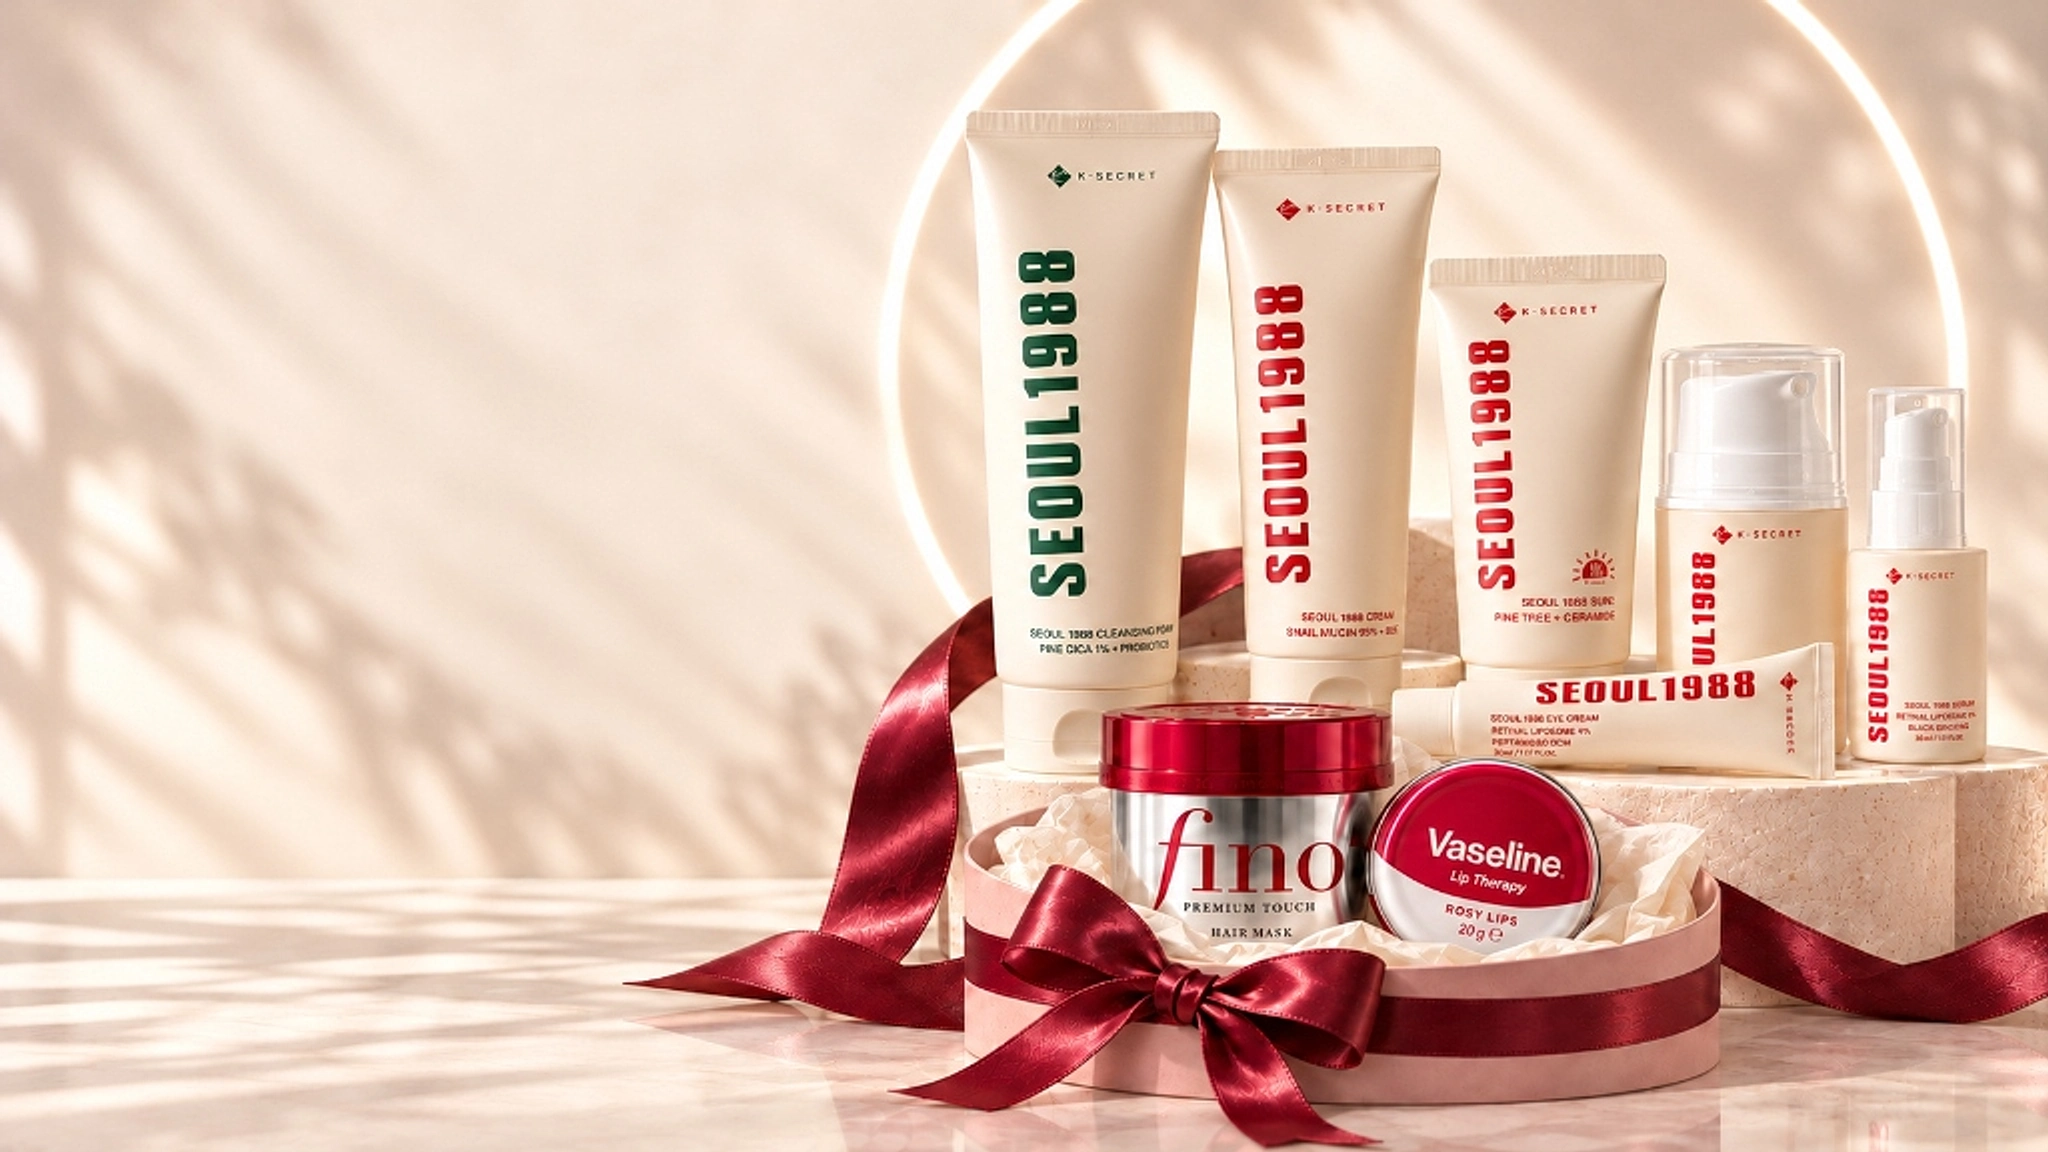
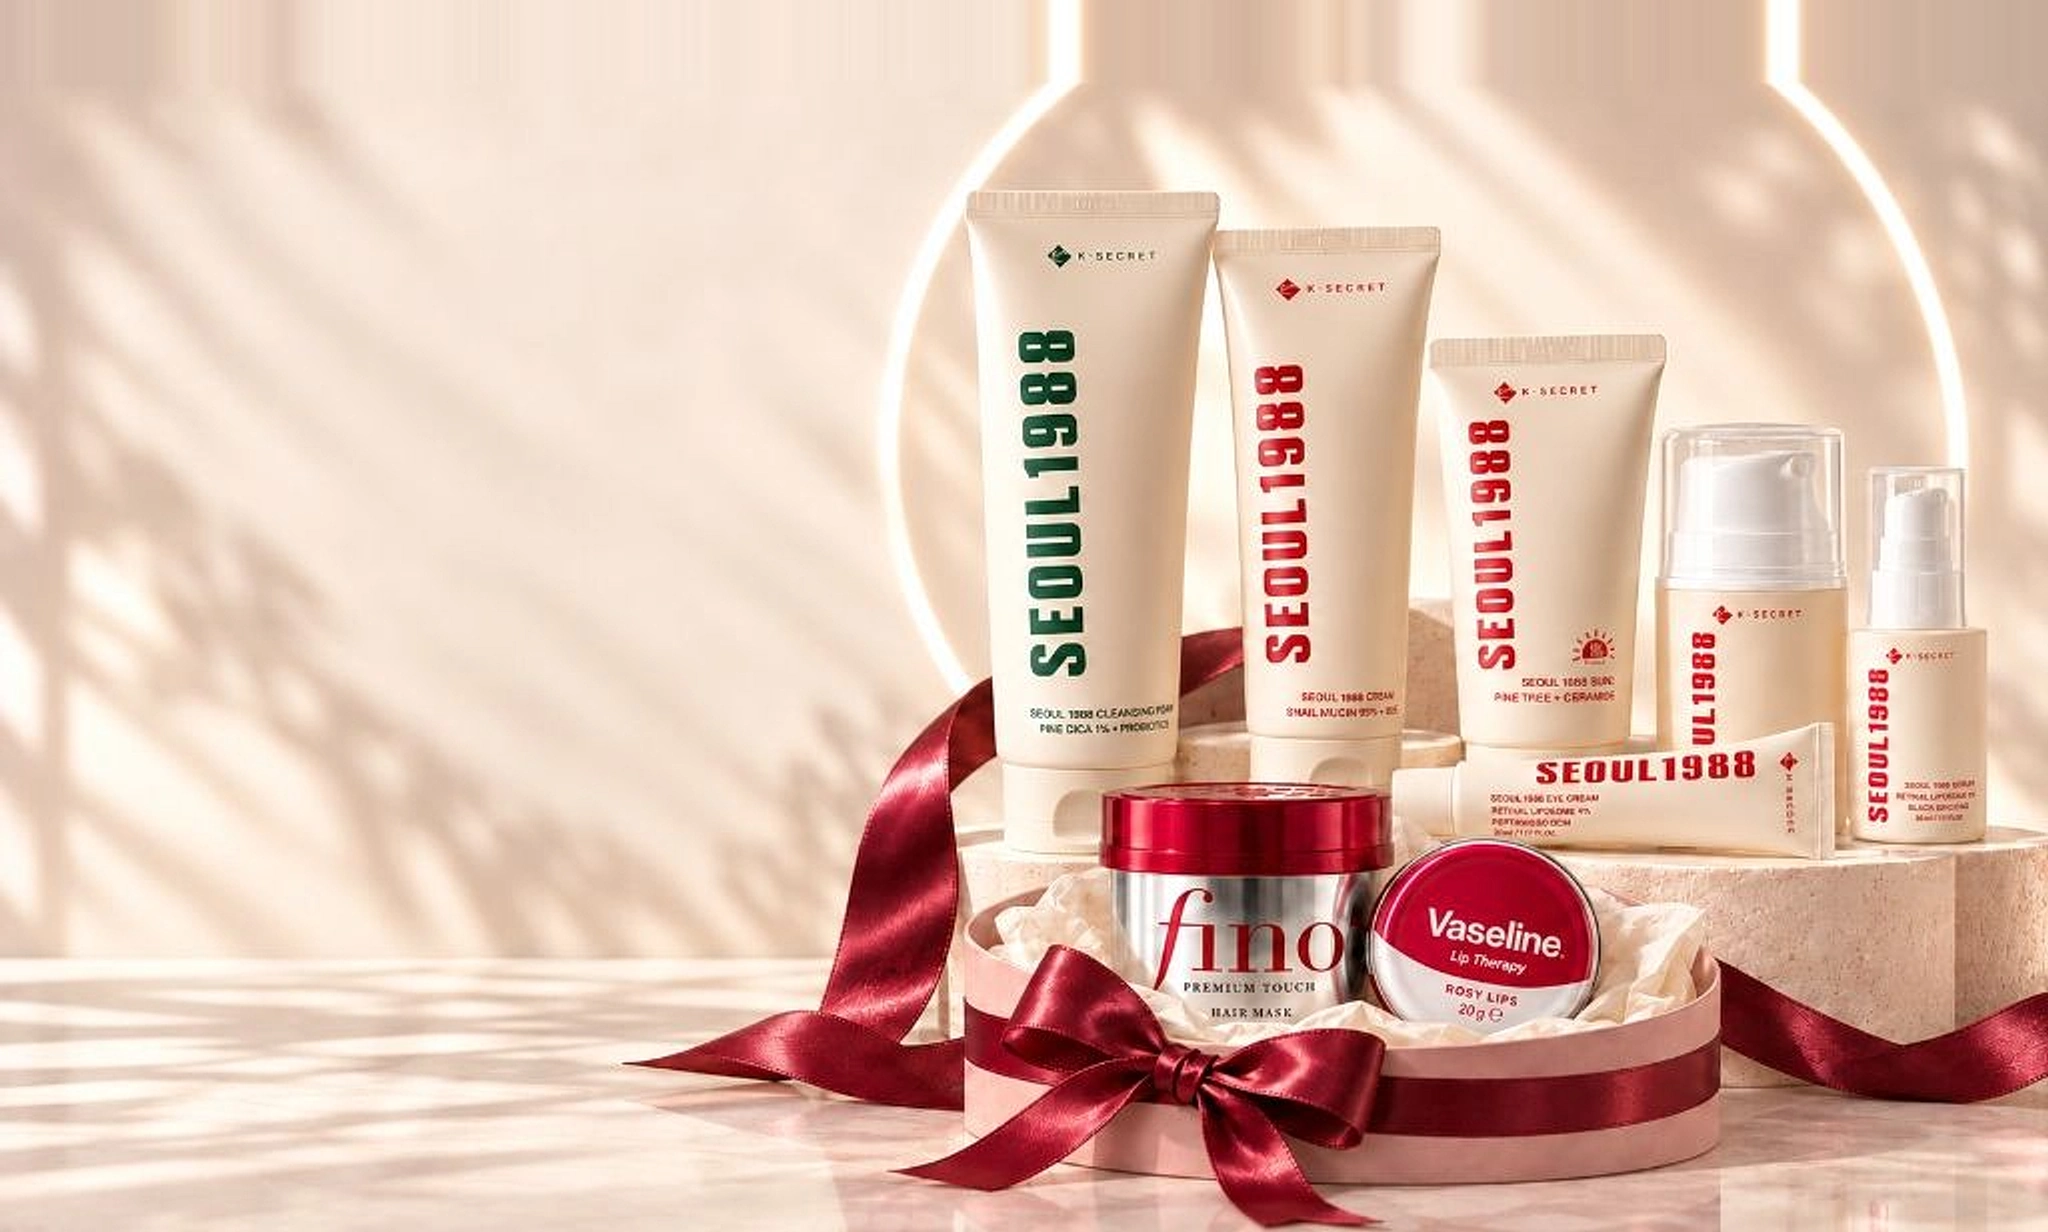
Scale and ground hero image to bottom right with headroom, revealing full circle and green cleansing foam without clipping

diff --git a/landing-page-2/components/Hero.tsx b/landing-page-2/components/Hero.tsx
@@ -17,26 +17,34 @@ export default function Hero() {
   return (
     <section
       id="hero"
-      className="relative pt-24 pb-12 sm:pt-28 sm:pb-16 lg:pt-36 lg:pb-28 overflow-hidden bg-[#EBDDCF] text-[#310F10]"
+      className="relative pt-24 pb-8 sm:pt-28 sm:pb-10 lg:pt-32 lg:pb-12 overflow-hidden bg-[#FAF7EE] text-[#310F10] min-h-[580px] lg:min-h-[640px] xl:min-h-[700px] flex items-center"
     >
-      {/* Desktop Full-Bleed Natural Image - Pure High-Resolution Studio Photography */}
-      <div className="absolute inset-0 hidden lg:block pointer-events-none">
-        <Image
-          src="/images/hero-pack.webp"
-          alt="Pack Seoul 1988 K-Secret"
-          fill
-          priority
-          sizes="100vw"
-          className="object-cover object-right"
-        />
+      {/* Desktop Natural Image - Scaled down slightly, shifted down below navbar, grounded at the bottom so the full light circle, green tube, and all products are 100% visible */}
+      <div
+        className="absolute right-0 bottom-0 top-16 sm:top-20 lg:top-20 w-full lg:w-[68%] xl:w-[65%] h-[calc(100%-4rem)] hidden lg:flex items-end justify-end pointer-events-none"
+        style={{
+          maskImage: "linear-gradient(to right, transparent 0%, black 14%)",
+          WebkitMaskImage: "linear-gradient(to right, transparent 0%, black 14%)",
+        }}
+      >
+        <div className="relative w-full h-full flex items-end justify-end">
+          <Image
+            src="/images/hero-pack.webp"
+            alt="Pack Seoul 1988 K-Secret"
+            fill
+            priority
+            sizes="(min-width: 1024px) 68vw, 100vw"
+            className="object-contain object-bottom-right"
+          />
+        </div>
       </div>
 
       {/* Main Container - Clean, Minimalist, Left-Aligned Headline, Gift Card & CTA Button */}
-      <div className="relative z-10 max-w-7xl mx-auto px-4 sm:px-6 lg:px-8">
-        <div className="flex flex-col items-start text-left max-w-xl lg:max-w-lg xl:max-w-xl">
+      <div className="relative z-10 max-w-7xl mx-auto px-4 sm:px-6 lg:px-8 w-full">
+        <div className="flex flex-col items-start text-left max-w-xl lg:max-w-md xl:max-w-lg">
           
           {/* Main Headline */}
-          <h1 className="font-serif text-3xl sm:text-4xl md:text-5xl lg:text-[44px] font-bold leading-[1.18] text-[#310F10] mb-6">
+          <h1 className="font-serif text-3xl sm:text-4xl md:text-5xl lg:text-[42px] font-bold leading-[1.18] text-[#310F10] mb-6">
             {t.titlePart1}
             <span className="font-extrabold text-[#74070D] italic underline decoration-[#74070D] decoration-wavy decoration-2">
               {t.titleHighlight}
